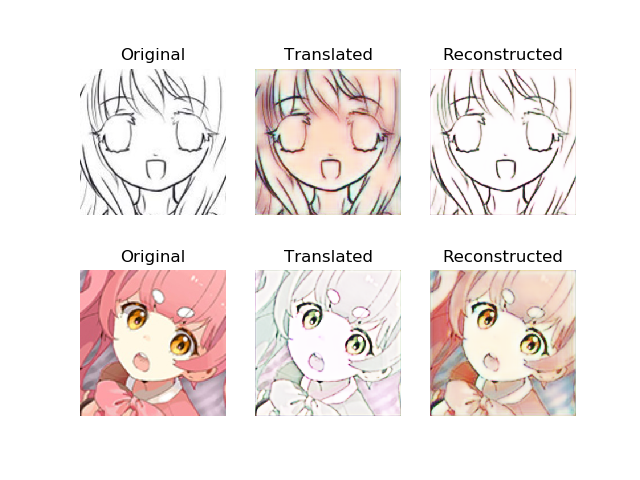
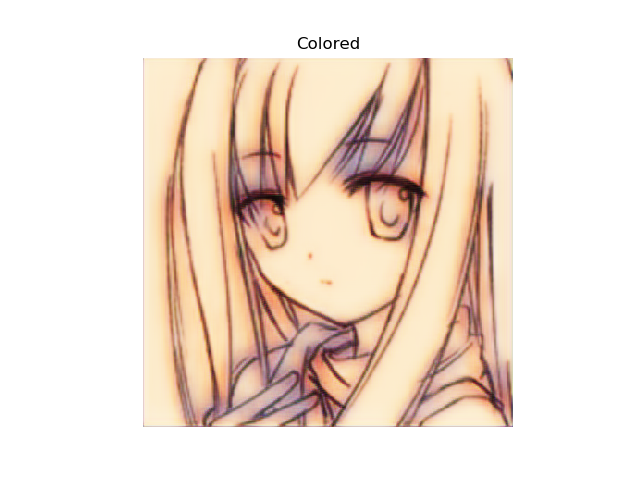
edit readme

diff --git a/cyclegan.py b/cyclegan.py
@@ -159,7 +159,7 @@ class CycleGAN():
 
         return Model(img, validity)
 
-    def train(self, epochs, batch_size=1, sample_interval=50):
+    def train(self, epochs, batch_size=1, sample_interval=100):
 
         start_time = datetime.datetime.now()
 
@@ -217,15 +217,14 @@ class CycleGAN():
                 # If at save interval => save generated image samples
                 if batch_i % sample_interval == 0:
                     self.sample_images(epoch, batch_i)
-                    self.g_AB.save('./saved_models/g_AB.h5')
-                    self.g_BA.save('./saved_models/g_BA.h5')
+                    self.g_AB.save('./saved_models/fill_color.h5')
+                    self.g_BA.save('./saved_models/remove_color.h5')
 
     def sample_images(self, epoch, batch_i):
         os.makedirs('images/%s' % self.dataset_name, exist_ok=True)
-        r, c = 2, 3
 
         imgs_A = self.data_loader.load_data(domain="A", batch_size=1, is_testing=True)
-        imgs_B = self.data_loader.load_data(domain="B", batch_size=1, is_testing=True)
+        # imgs_B = self.data_loader.load_data(domain="B", batch_size=1, is_testing=True)
 
         # Demo (for GIF)
         #imgs_A = self.data_loader.load_img('datasets/apple2orange/testA/n07740461_1541.jpg')
@@ -233,24 +232,32 @@ class CycleGAN():
 
         # Translate images to the other domain
         fake_B = self.g_AB.predict(imgs_A)
-        fake_A = self.g_BA.predict(imgs_B)
+        # fake_A = self.g_BA.predict(imgs_B)
         # Translate back to original domain
-        reconstr_A = self.g_BA.predict(fake_B)
-        reconstr_B = self.g_AB.predict(fake_A)
+        # reconstr_A = self.g_BA.predict(fake_B)
+        # reconstr_B = self.g_AB.predict(fake_A)
 
-        gen_imgs = np.concatenate([imgs_A, fake_B, reconstr_A, imgs_B, fake_A, reconstr_B])
+        # gen_imgs = np.concatenate([imgs_A, fake_B, reconstr_A, imgs_B, fake_A, reconstr_B])
+        # generate colored image only
+        gen_imgs = fake_B
 
         # Rescale images 0 - 1
         gen_imgs = 0.5 * gen_imgs + 0.5
 
-        titles = ['Original', 'Translated', 'Reconstructed']
-        fig, axs = plt.subplots(r, c)
-        cnt = 0
-        for i in range(r):
-            for j in range(c):
-                axs[i,j].imshow(gen_imgs[cnt])
-                axs[i, j].set_title(titles[j])
-                axs[i,j].axis('off')
-                cnt += 1
+        titles = ['Colored']
+        fig, axs = plt.subplots(1, 1)
+        axs.imshow(gen_imgs[0])
+        axs.set_title(titles[0])
+        axs.axis('off')
+        # titles = ['Original', 'Translated', 'Reconstructed']
+        # r, c = 2, 3
+        # fig, axs = plt.subplots(r, c)
+        # cnt = 0
+        # for i in range(r):
+        #     for j in range(c):
+        #         axs[i,j].imshow(gen_imgs[cnt])
+        #         axs[i, j].set_title(titles[j])
+        #         axs[i,j].axis('off')
+        #         cnt += 1
         fig.savefig("images/%s/%d_%d.png" % (self.dataset_name, epoch, batch_i))
         plt.close()

diff --git a/main.py b/main.py
@@ -1,8 +1,9 @@
 from cyclegan import *
+from data_loader import *
 from PIL import Image
 
-row_size = 256
-col_size = 256
+row_size = 400
+col_size = 400
 
 if sys.argv[1] == '-t':
     gan = CycleGAN(row_size, col_size, 3)
@@ -10,16 +11,18 @@ if sys.argv[1] == '-t':
 elif sys.argv[1] == '-p':
     if sys.argv[2] != '':
         input_path = sys.argv[2]
-        img = Image.open(input_path)
-        img = img.resize((col_size, row_size), Image.ANTIALIAS)
-        img = np.array(img)
-        img = np.array([img])
-        gan = load_model('./saved_models/g_AB.h5')
+        # img = Image.open(input_path)
+        # img = img.resize((col_size, row_size), Image.ANTIALIAS)
+        # img = np.array(img)
+        # img = np.array([img])
+        loader = DataLoader('', (row_size, col_size))
+        img = loader.load_img('./test_input.jpg')
+        gan = load_model('./saved_models/fill_color.h5')
         output_img = gan.predict(img)
         output_img = (output_img + 1) / 2 * 255
         output_img = output_img.astype(np.uint8)
         pic = output_img[0,:,:,:]
-        plt.imsave('./test.png', arr=pic)
+        plt.imsave('./test_out.png', arr=pic)
         print('Done!')
     else:
         print('Invalid input image path!')

diff --git a/README.md b/README.md
@@ -1,4 +1,4 @@
-This is a funny demo for CycleGAN, filling colors automatically based on black-and-white line drafts of a fixed size of 256x256.
+This is a application demo of CycleGAN, filling colors automatically based on black-and-white line drafts of a fixed size of 256x256.
 
 ## Usage
 ### Environment
@@ -23,3 +23,11 @@ Codes are edited from gan-zoo on GitHub.
 First row: line draft to colored image
 Second row: colored image to line draft
 ![190_0](/images/190_0.png)
+
+And here are some training results during the training period.
+
+Original sketch:
+![origin](/images/origin.jpg)
+
+Results during the training:
+![5_100](/images/5_100.png) ![14_0](/images/14_0.png)  ![23_0](/images/23_0.png) ![44_100](/images/44_100.png) ![333_100](/images/333_100.png) ![341_0](/images/341_0.png) ![342_0](/images/342_0.png) ![347_0](/images/347_0.png) ![348_0](/images/348_0.png) ![353_0](/images/353_0.png)
